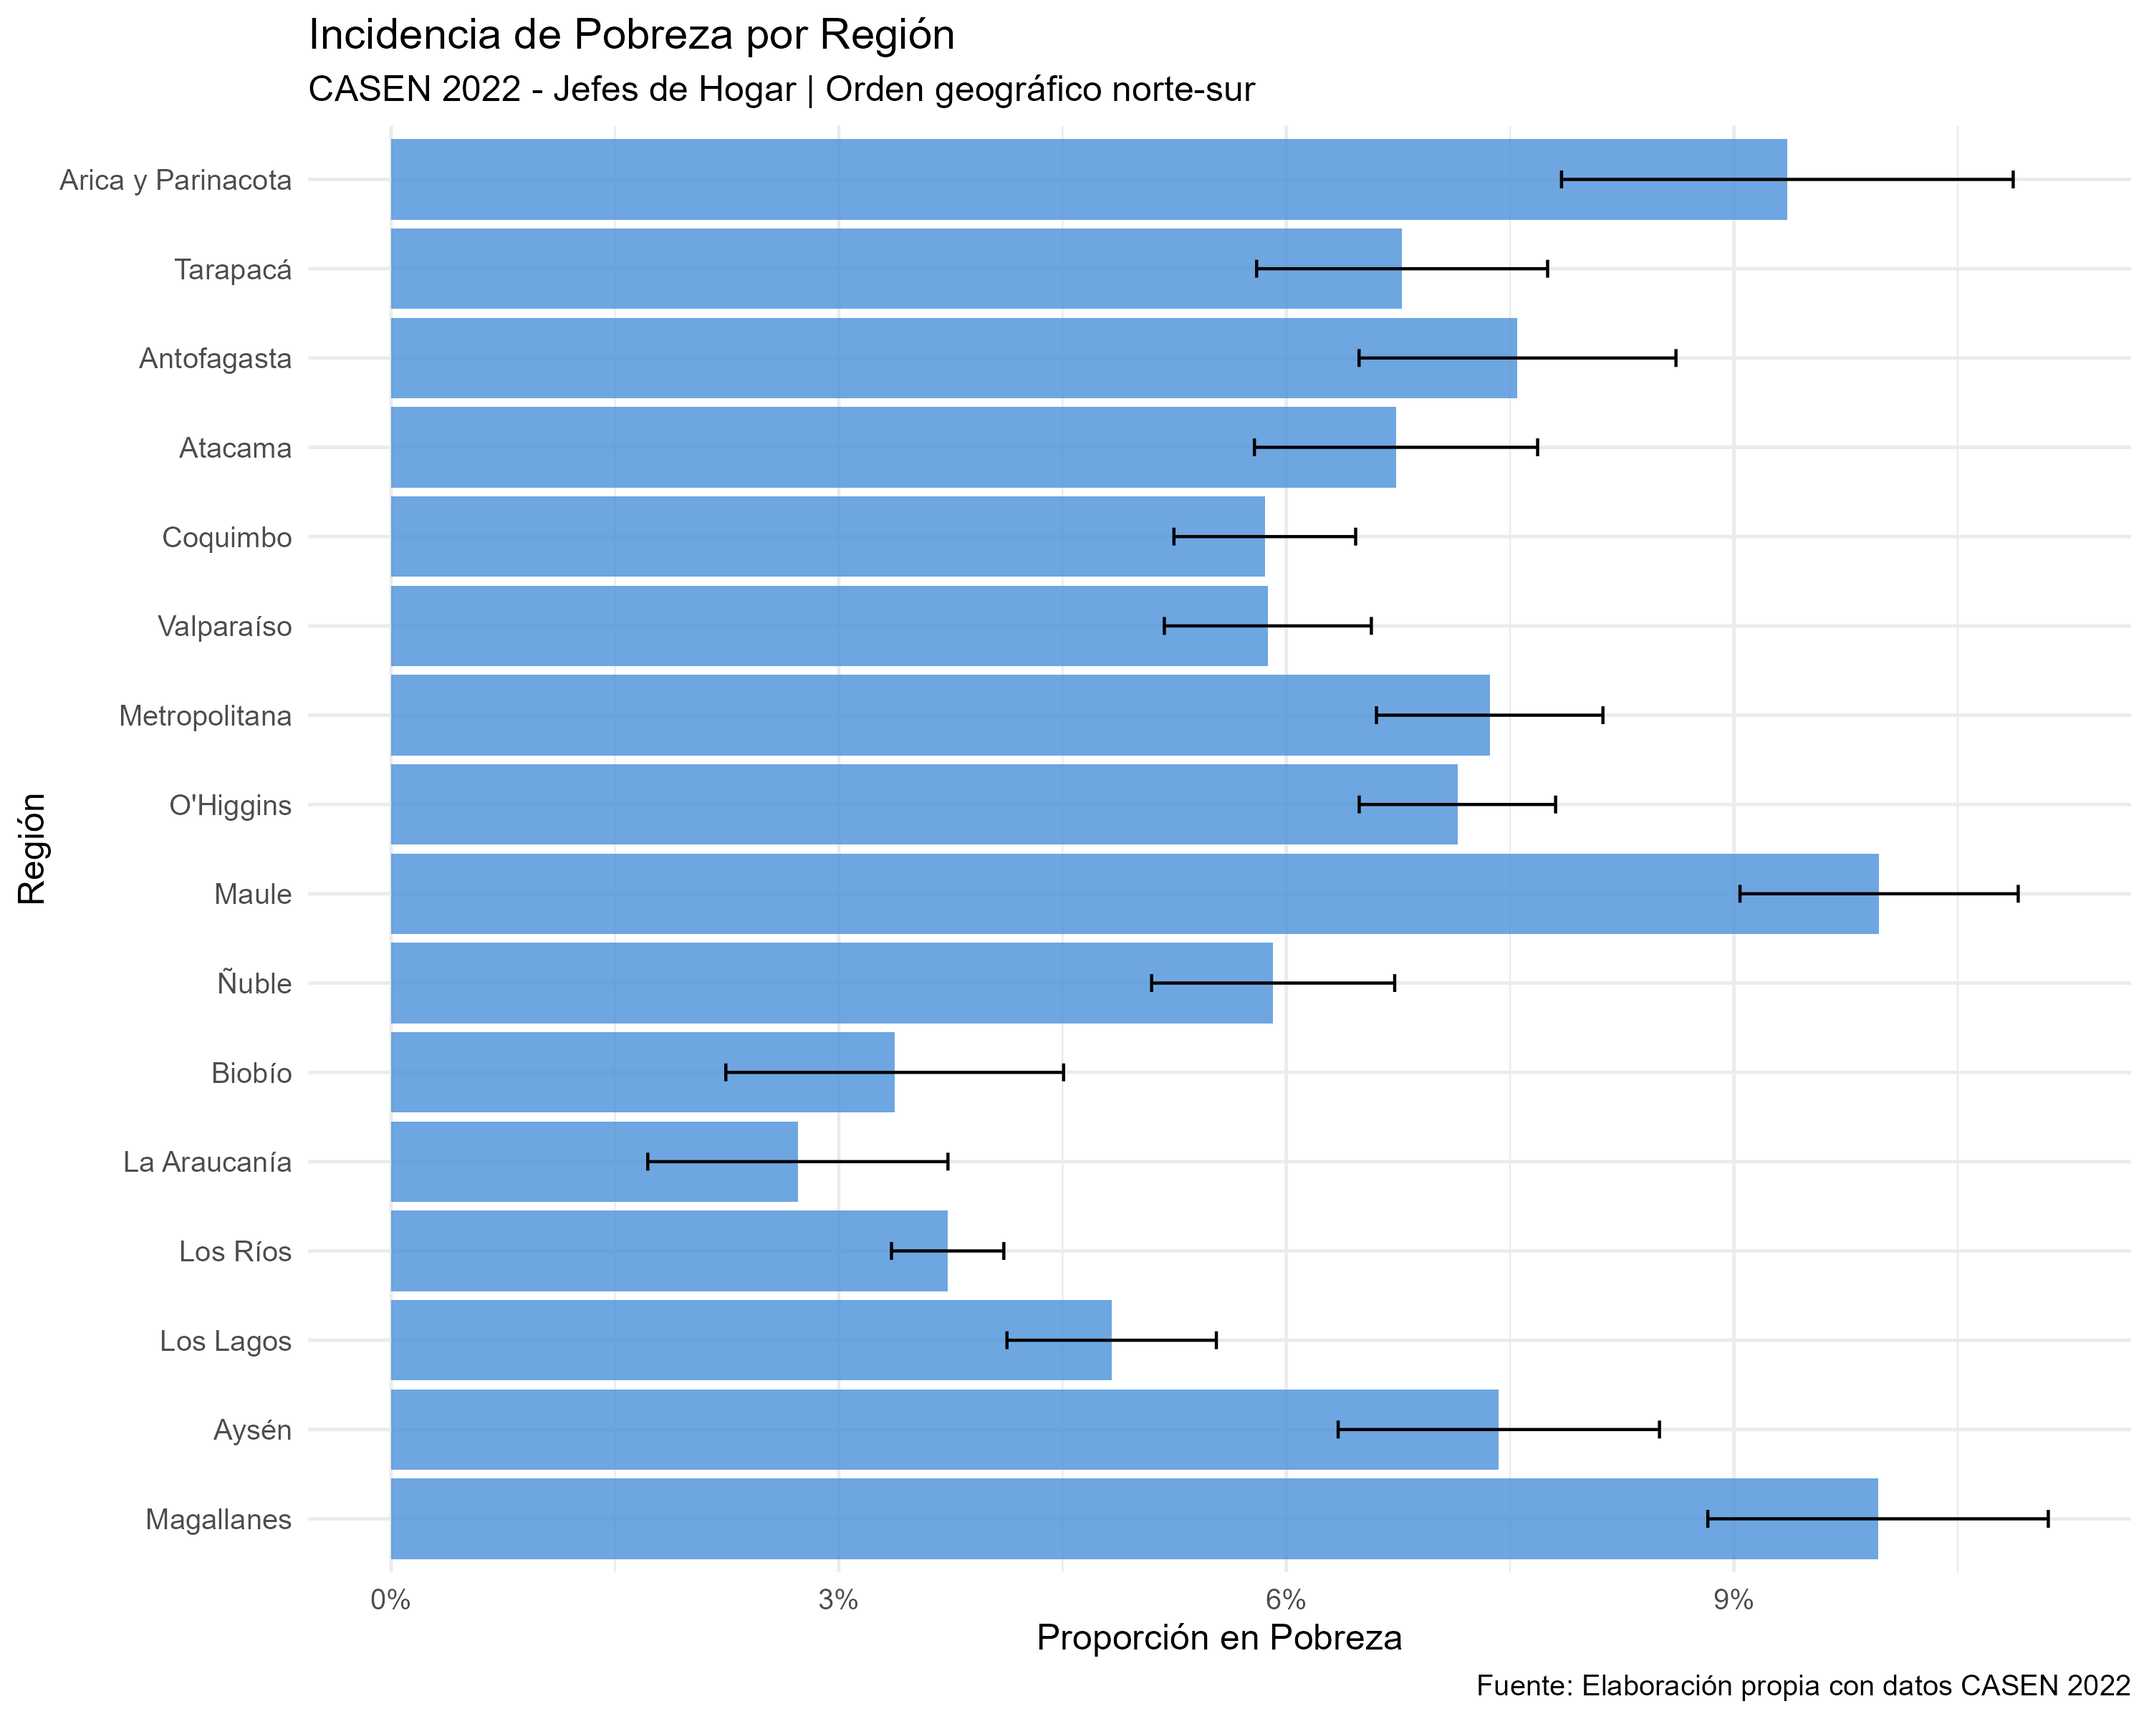
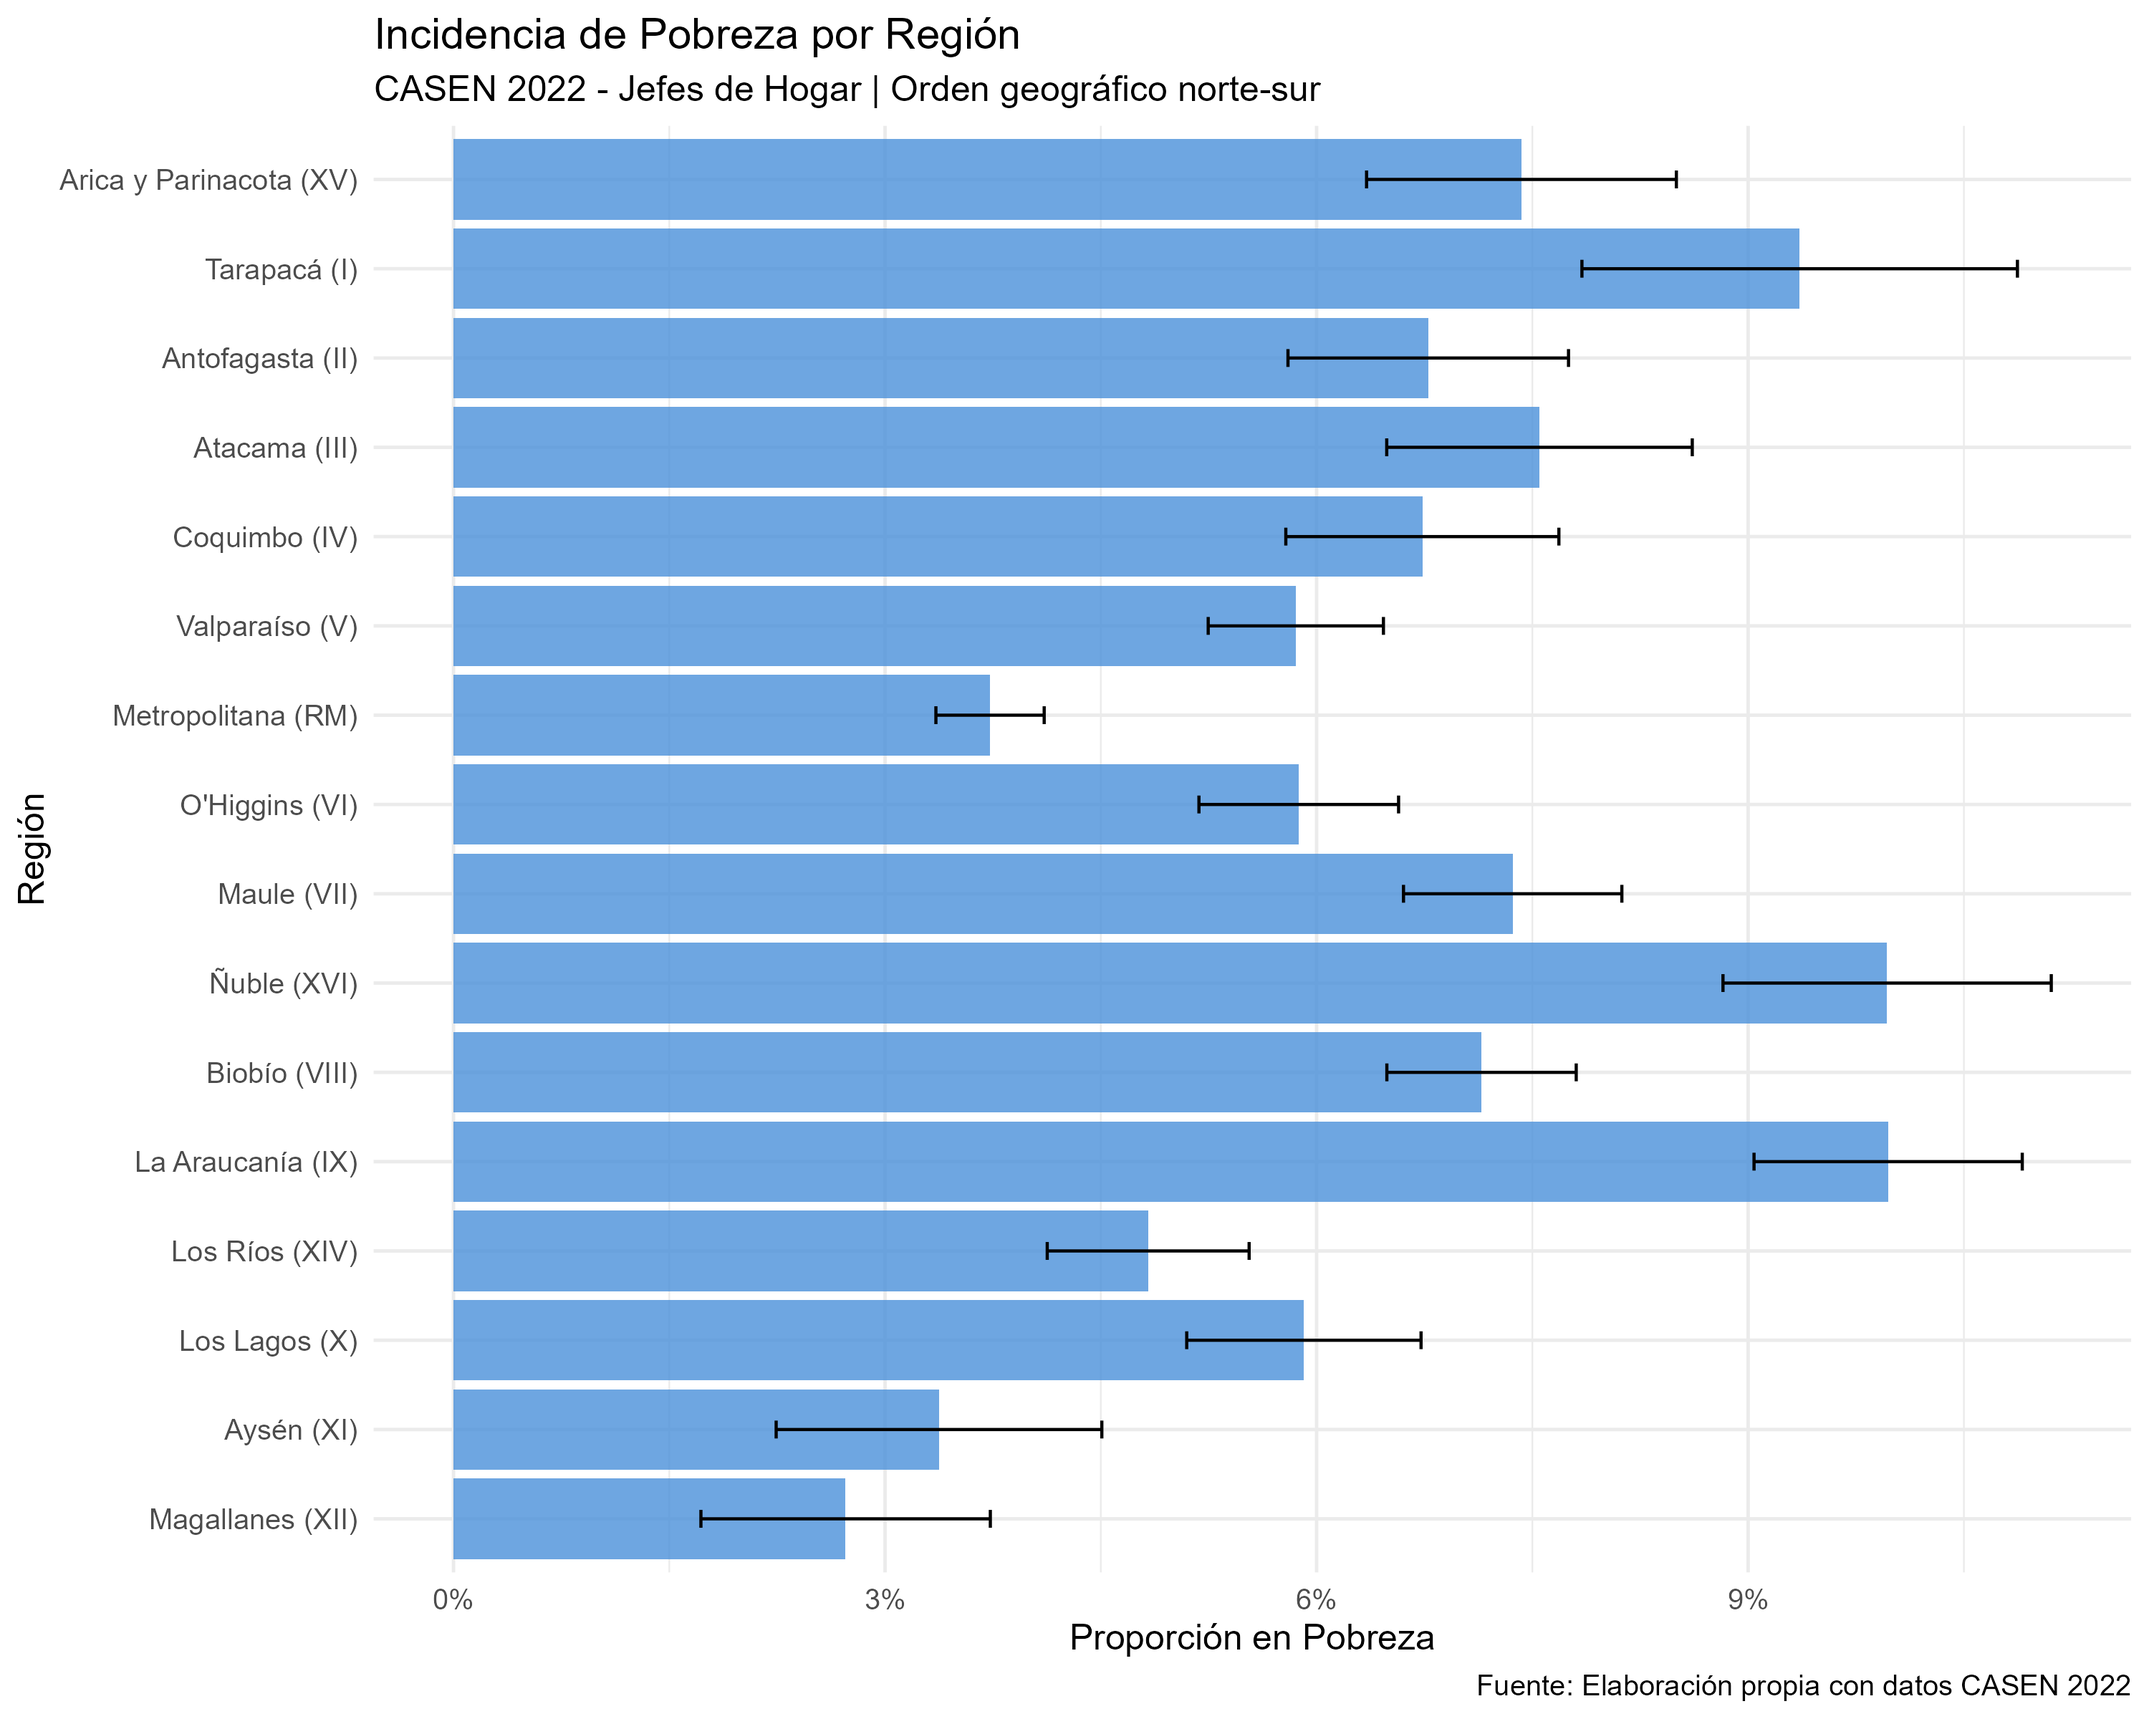
plots

Changed region(s): [[0.372, 0.4688, 0.899, 0.9688], [0.062, 0.0, 0.62, 0.9375], [0.434, 0.0625, 0.837, 0.5]]

diff --git a/04_Informe/Informe_Final/04_resultados.tex b/04_Informe/Informe_Final/04_resultados.tex
@@ -14,9 +14,9 @@
     \tableheadercolor
     \textbf{Indicador} & \textbf{Valor} & \textbf{Interpretación} \\
     \midrule
-    Tasa pobreza nacional & $\sim$6.5\% & 4,694 jefes en pobreza \\
-    Regiones más pobres & Maule, Arica y Parinacota, Magallanes & $\sim$9--10\% (casi el doble) \\
-    Regiones menos pobres & La Araucanía, Biobío, Los Ríos & $\sim$2.5--3.5\% (menos de la mitad) \\
+    Tasa pobreza nacional & $\sim$6.5\% & Promedio ponderado nacional \\
+    Regiones más pobres & La Araucanía, Ñuble, Tarapacá & $\sim$9--10\% (casi el doble) \\
+    Regiones menos pobres & Magallanes, Aysén, Metropolitana & $\sim$2.7--3.7\% (menos de la mitad) \\
     \bottomrule
     \end{tabular}
     
@@ -24,7 +24,7 @@
     {\small\textit{Nota: Estimaciones ponderadas con factores de expansión regional.}}
 \end{table}
 
-Existe una marcada heterogeneidad territorial. Contraintuitivamente, las regiones del Maule, Arica y Parinacota, y zonas extremas como Magallanes concentran las mayores tasas de pobreza ($\sim$9--10\%), mientras que La Araucanía ($\sim$2.5\%), Biobío ($\sim$3\%) y Los Ríos ($\sim$3.5\%) presentan los menores niveles entre jefes de hogar. La Figura \ref{fig:pobreza_region} ilustra esta distribución.
+Existe una marcada heterogeneidad territorial. Las regiones de La Araucanía y Ñuble presentan las mayores tasas de pobreza ($\sim$10\%), seguidas por Tarapacá (9.4\%) y Atacama (7.6\%). En contraste, las regiones extremas de Magallanes (2.7\%) y Aysén (3.4\%), junto con la Región Metropolitana (3.7\%), presentan los menores niveles de pobreza entre jefes de hogar. La Figura \ref{fig:pobreza_region} ilustra esta distribución.
 
 \begin{figure}[H]
     \centering
@@ -57,9 +57,21 @@ La pobreza rural es significativamente mayor que la urbana, con una diferencia r
 
 \begin{figure}[H]
     \centering
-    \includegraphics[width=0.52\textwidth]{Imagenes/g4_pobreza_urbano_rural.png}
-    \caption{Incidencia de pobreza: zona urbana vs rural}
-    \label{fig:pobreza_urbano_rural}
+    \begin{subfigure}[b]{0.48\textwidth}
+        \centering
+        \includegraphics[width=\textwidth]{Imagenes/g4_pobreza_urbano_rural.png}
+        \caption{Pobreza urbano vs rural}
+        \label{fig:pobreza_urbano_rural}
+    \end{subfigure}
+    \hfill
+    \begin{subfigure}[b]{0.48\textwidth}
+        \centering
+        \includegraphics[width=\textwidth]{Imagenes/g7_pobreza_region_zona.png}
+        \caption{Pobreza por región y zona}
+        \label{fig:pobreza_region_zona}
+    \end{subfigure}
+    \caption{Análisis de pobreza territorial}
+    \label{fig:pobreza_territorial}
 \end{figure}
 
 \subsubsection{Modelo logístico de pobreza}
@@ -117,9 +129,21 @@ La menor escolaridad en zonas rurales media el 45\% del efecto de la ruralidad s
 
 \begin{figure}[H]
     \centering
-    \includegraphics[width=0.52\textwidth]{Imagenes/g10_diagrama_mediacion.png}
-    \caption{Diagrama de mediación: Zona $\to$ Educación $\to$ Pobreza}
-    \label{fig:mediacion}
+    \begin{subfigure}[b]{0.48\textwidth}
+        \centering
+        \includegraphics[width=\textwidth]{Imagenes/g10_diagrama_mediacion.png}
+        \caption{Diagrama de mediación}
+        \label{fig:mediacion}
+    \end{subfigure}
+    \hfill
+    \begin{subfigure}[b]{0.48\textwidth}
+        \centering
+        \includegraphics[width=\textwidth]{Imagenes/g6_escolaridad_zona.png}
+        \caption{Escolaridad por zona}
+        \label{fig:escolaridad_zona}
+    \end{subfigure}
+    \caption{Análisis de mediación: Zona $\to$ Educación $\to$ Pobreza}
+    \label{fig:mediacion_combined}
 \end{figure}
 
 %-------------------------------------------------------------------------------

diff --git a/04_Informe/Informe_Final/06_conclusiones.tex b/04_Informe/Informe_Final/06_conclusiones.tex
@@ -6,7 +6,7 @@
 \begin{hallazgobox}
 
 \noindent
-\textbf{Hallazgo 1:} La pobreza rural es 58\% mayor que la urbana (8.4\% vs 5.3\%, p $<$ 0.001), con heterogeneidad regional significativa: Maule y Magallanes ($\sim$10\%) vs La Araucanía ($\sim$2.5\%).
+\textbf{Hallazgo 1:} La pobreza rural es 58\% mayor que la urbana (8.4\% vs 5.3\%, p $<$ 0.001), con heterogeneidad regional significativa: La Araucanía y Ñuble ($\sim$10\%) vs Magallanes ($\sim$2.7\%) y Aysén ($\sim$3.4\%).
 
 \vspace{0.4cm}
 
@@ -59,7 +59,7 @@ Los análisis confirman patrones estructurales de desigualdad territorial y de g
 \subsubsection{Para Política Pública}
 
 \begin{enumerate}
-    \item Focalizar inversión educativa en regiones de alta pobreza: Maule ($\sim$10\%), Arica y Parinacota ($\sim$9\%) y Magallanes ($\sim$10\%)
+    \item Focalizar inversión educativa en regiones de alta pobreza: La Araucanía ($\sim$10\%), Ñuble ($\sim$10\%) y Tarapacá ($\sim$9.4\%)
     \item Implementar mecanismos de transparencia salarial para reducir discriminación, especialmente en ocupaciones técnicas superiores y de postgrado
     \item Evaluar el impacto de políticas de corresponsabilidad parental en la reducción de la brecha de género
 \end{enumerate}

diff --git a/04_Informe/Informe_Final/05_discusion.tex b/04_Informe/Informe_Final/05_discusion.tex
@@ -72,5 +72,5 @@ Según el INE:
     
     \item \textbf{Equidad salarial:} Revisar mecanismos de transparencia salarial para reducir discriminación, particularmente en ocupaciones de mayor calificación donde la brecha se amplifica
     
-    \item \textbf{Desarrollo territorial:} Integrar en políticas públicas el reconocimiento de la heterogeneidad regional, con énfasis en regiones de alta pobreza: Maule ($\sim$10\%), Arica y Parinacota ($\sim$9\%) y Magallanes ($\sim$10\%)
+    \item \textbf{Desarrollo territorial:} Integrar en políticas públicas el reconocimiento de la heterogeneidad regional, con énfasis en regiones de alta pobreza: La Araucanía ($\sim$10\%), Ñuble ($\sim$10\%) y Tarapacá ($\sim$9.4\%)
 \end{itemize}
